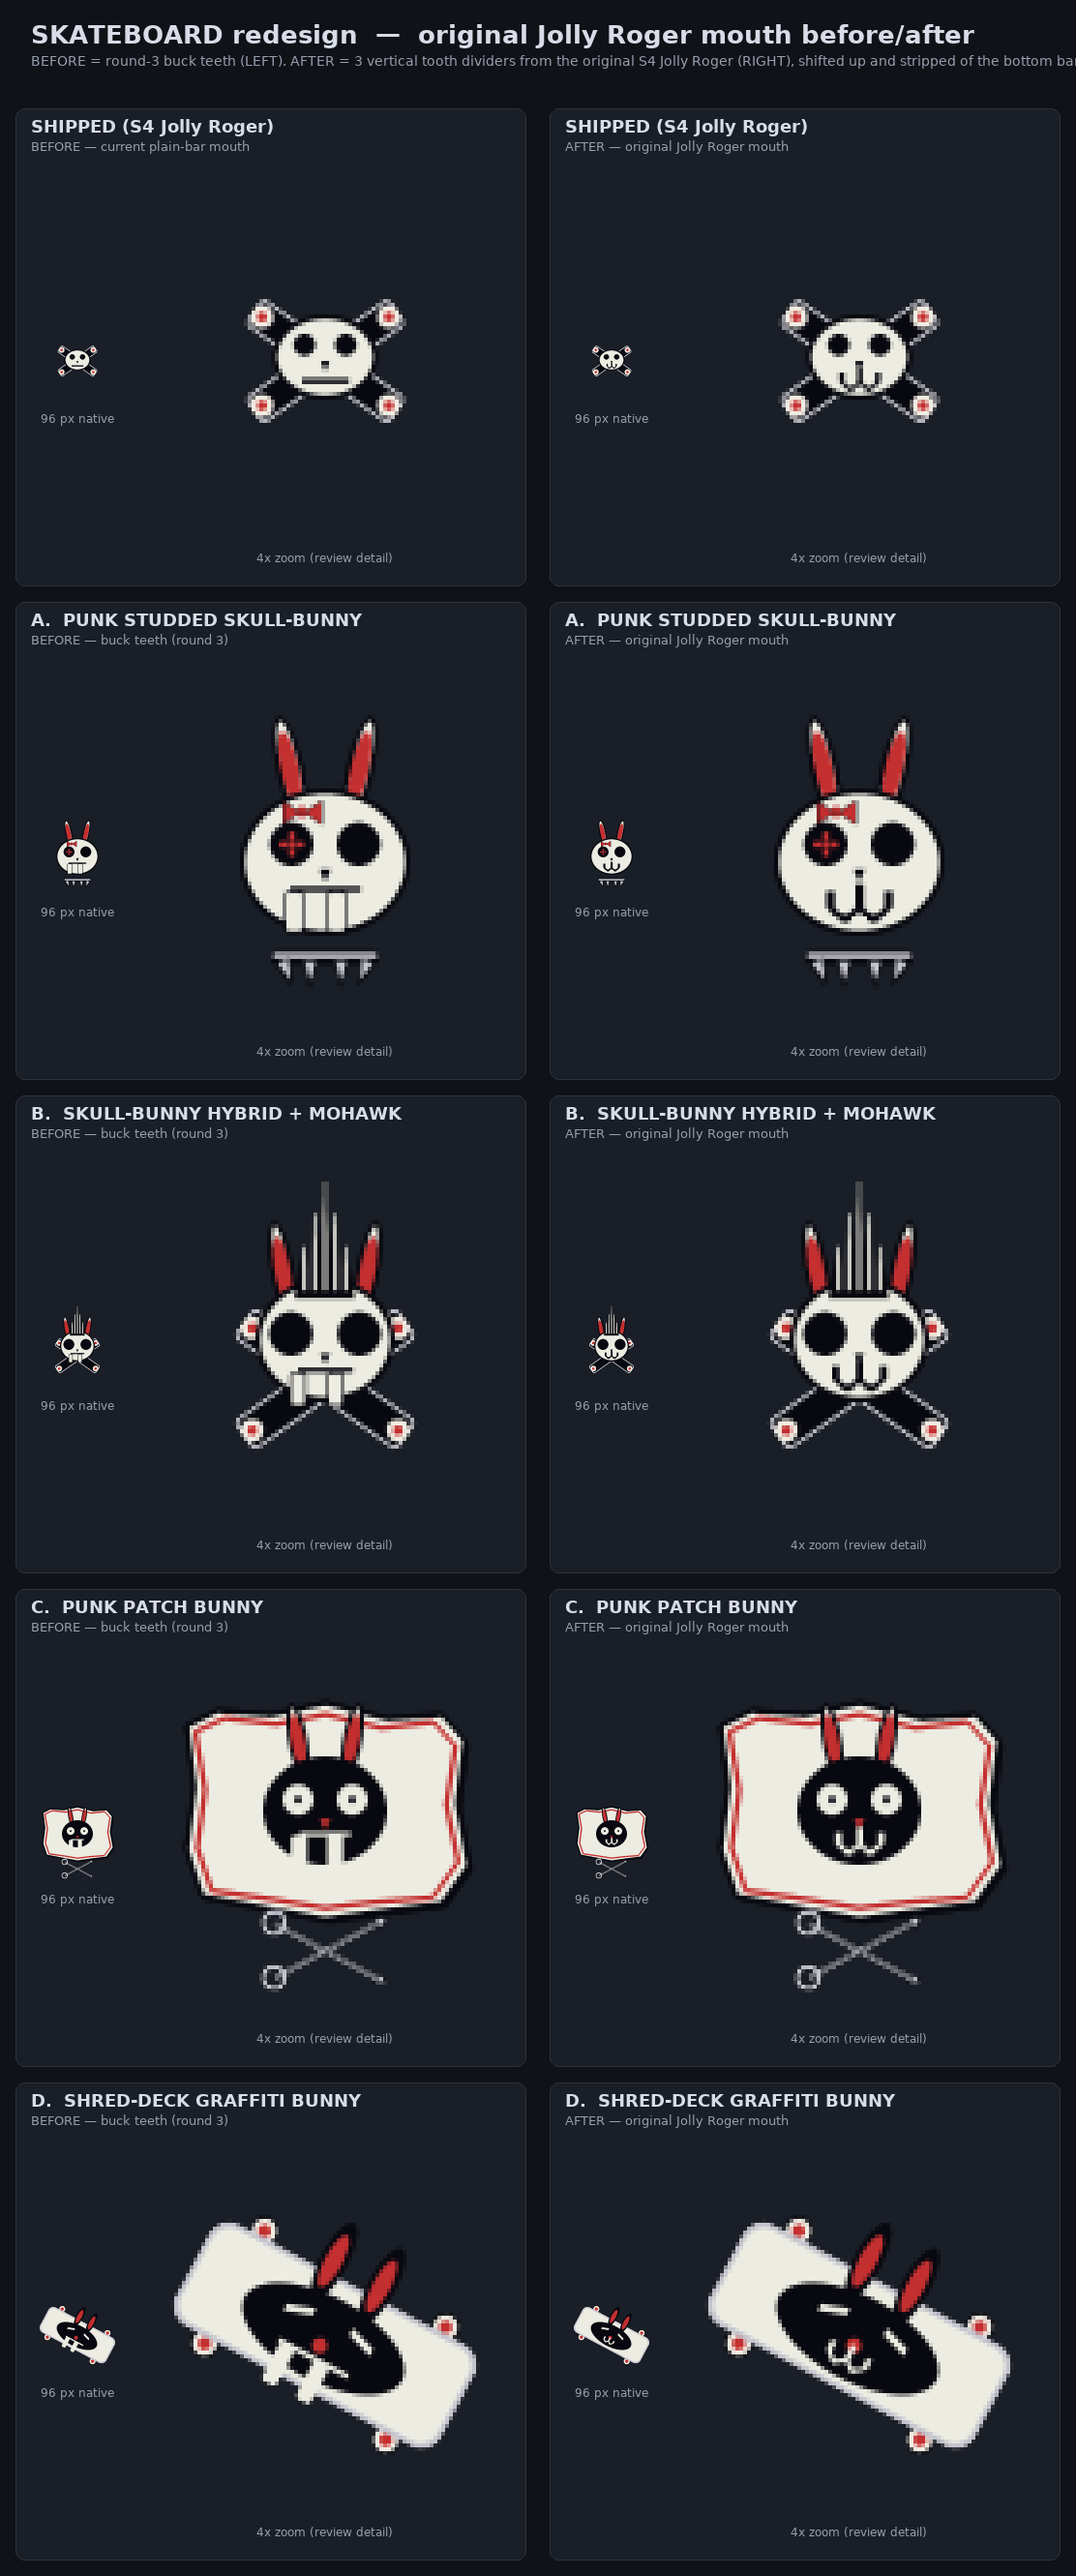
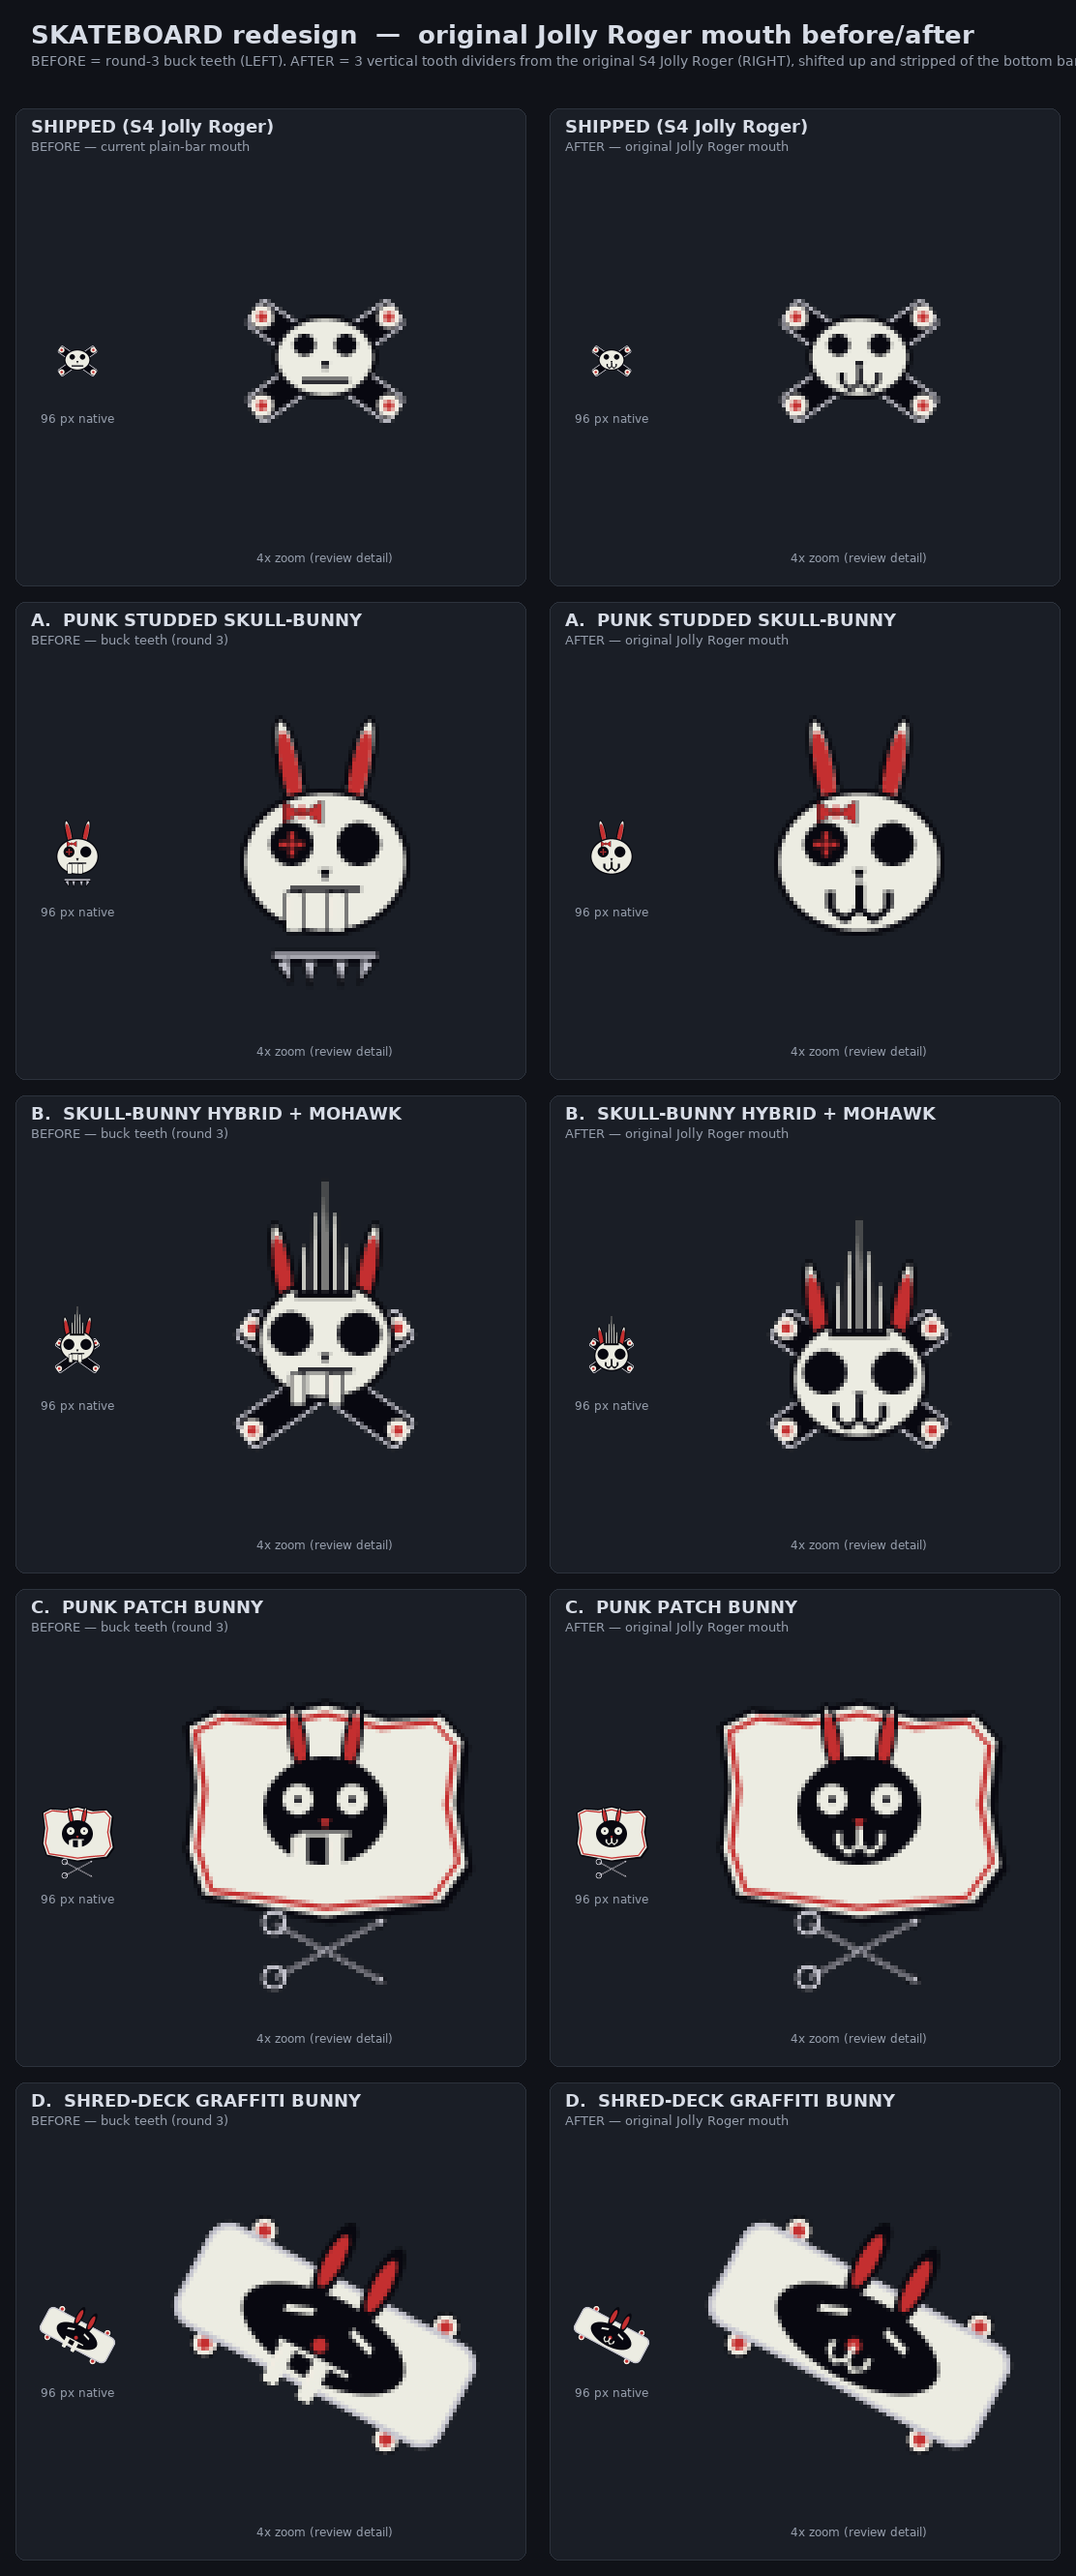
Skateboard before/after: A drops spiked collar, B centers head on X
A. PUNK STUDDED SKULL-BUNNY — remove the spiked CHROME collar + band
   that sat below the jaw. The candidate is now just the skull-bunny
   head with the curly Jolly Roger mouth; no element protrudes past
   the skull silhouette.

B. SKULL-BUNNY HYBRID + MOHAWK — shift head + ears down 10 SS so the
   skull centers on the crossed-decks X instead of floating above it.
   Classic skull-and-crossbones composition.

Changed region(s): [[0.7338, 0.4677, 0.8561, 0.5612], [0.7644, 0.343, 0.8255, 0.3742], [0.5504, 0.4989, 0.5809, 0.5301]]

diff --git a/tools/render_skateboard_redesign_before_after.py b/tools/render_skateboard_redesign_before_after.py
@@ -186,48 +186,8 @@ def render_concept_a_after():
         (sk.centerx,                 nose_bot_y),
     ])
 
-    # L2 Misfits mouth in place of round-3's high jaw line + buck teeth.
+    # Jolly Roger mouth on the skull.
     _draw_jolly_roger_mouth(big, sk.centerx, sk.top, SK_H, SK_W, color=DOME)
-
-    # Spiked CHROME collar — round-3 element, preserved.
-    collar_y = sk.bottom + int(5 * SS)
-    band_w = int(28 * SS)
-    band_t = int(2.6 * SS)
-    band = pygame.Rect(0, 0, band_w, band_t)
-    band.center = (sk.centerx, collar_y)
-    band_shadow = band.copy()
-    band_shadow.move_ip(0, int(1 * SS))
-    pygame.draw.rect(big, DOME, band_shadow, border_radius=int(1.0 * SS))
-    pygame.draw.rect(big, CHROME, band, border_radius=int(1.0 * SS))
-    pygame.draw.rect(big, DOME, band, max(1, int(0.5 * SS)),
-                     border_radius=int(1.0 * SS))
-    spike_h = int(6 * SS)
-    spike_half_w = int(1.8 * SS)
-    spike_defs = [
-        (-int(11 * SS), -22),
-        (-int(4 * SS),    0),
-        ( int(4 * SS),    0),
-        ( int(11 * SS),  22),
-    ]
-    for x_off, ang in spike_defs:
-        ax = sk.centerx + x_off
-        ay = band.bottom
-        local_pts = [
-            (-spike_half_w, 0),
-            ( spike_half_w, 0),
-            ( 0, spike_h),
-        ]
-        rad = math.radians(ang)
-        cos_a, sin_a = math.cos(rad), math.sin(rad)
-        rot_pts = []
-        for lx, ly in local_pts:
-            rx = lx * cos_a - ly * sin_a
-            ry = lx * sin_a + ly * cos_a
-            rot_pts.append((ax + rx, ay + ry))
-        shadow_pts = [(px, py + int(1 * SS)) for px, py in rot_pts]
-        pygame.draw.polygon(big, DOME, shadow_pts)
-        pygame.draw.polygon(big, CHROME, rot_pts)
-        pygame.draw.polygon(big, DOME, rot_pts, max(1, SS // 3))
 
     knot_cx, knot_cy = ear_centers[-1]
     knot_cy = knot_cy + int(11 * SS)
@@ -271,7 +231,7 @@ def render_concept_b_after():
 
     for sign in (-1, 1):
         er = pygame.Rect(0, 0, int(6 * SS), int(26 * SS))
-        er.center = (bx + sign * int(11 * SS), by - int(20 * SS))
+        er.center = (bx + sign * int(11 * SS), by - int(10 * SS))
         ang = -10 * sign
         ear_sub = pygame.Surface(
             (er.width + 4 * SS, er.height + 4 * SS), pygame.SRCALPHA)
@@ -287,7 +247,7 @@ def render_concept_b_after():
     SK_W = 36
     SK_H = 32
     sk = pygame.Rect(0, 0, SK_W * SS, SK_H * SS)
-    sk.center = (bx, by - int(2 * SS))
+    sk.center = (bx, by + int(8 * SS))
     pygame.draw.ellipse(big, BONE, sk)
     pygame.draw.ellipse(big, DOME, sk, int(1.4 * SS))
 
